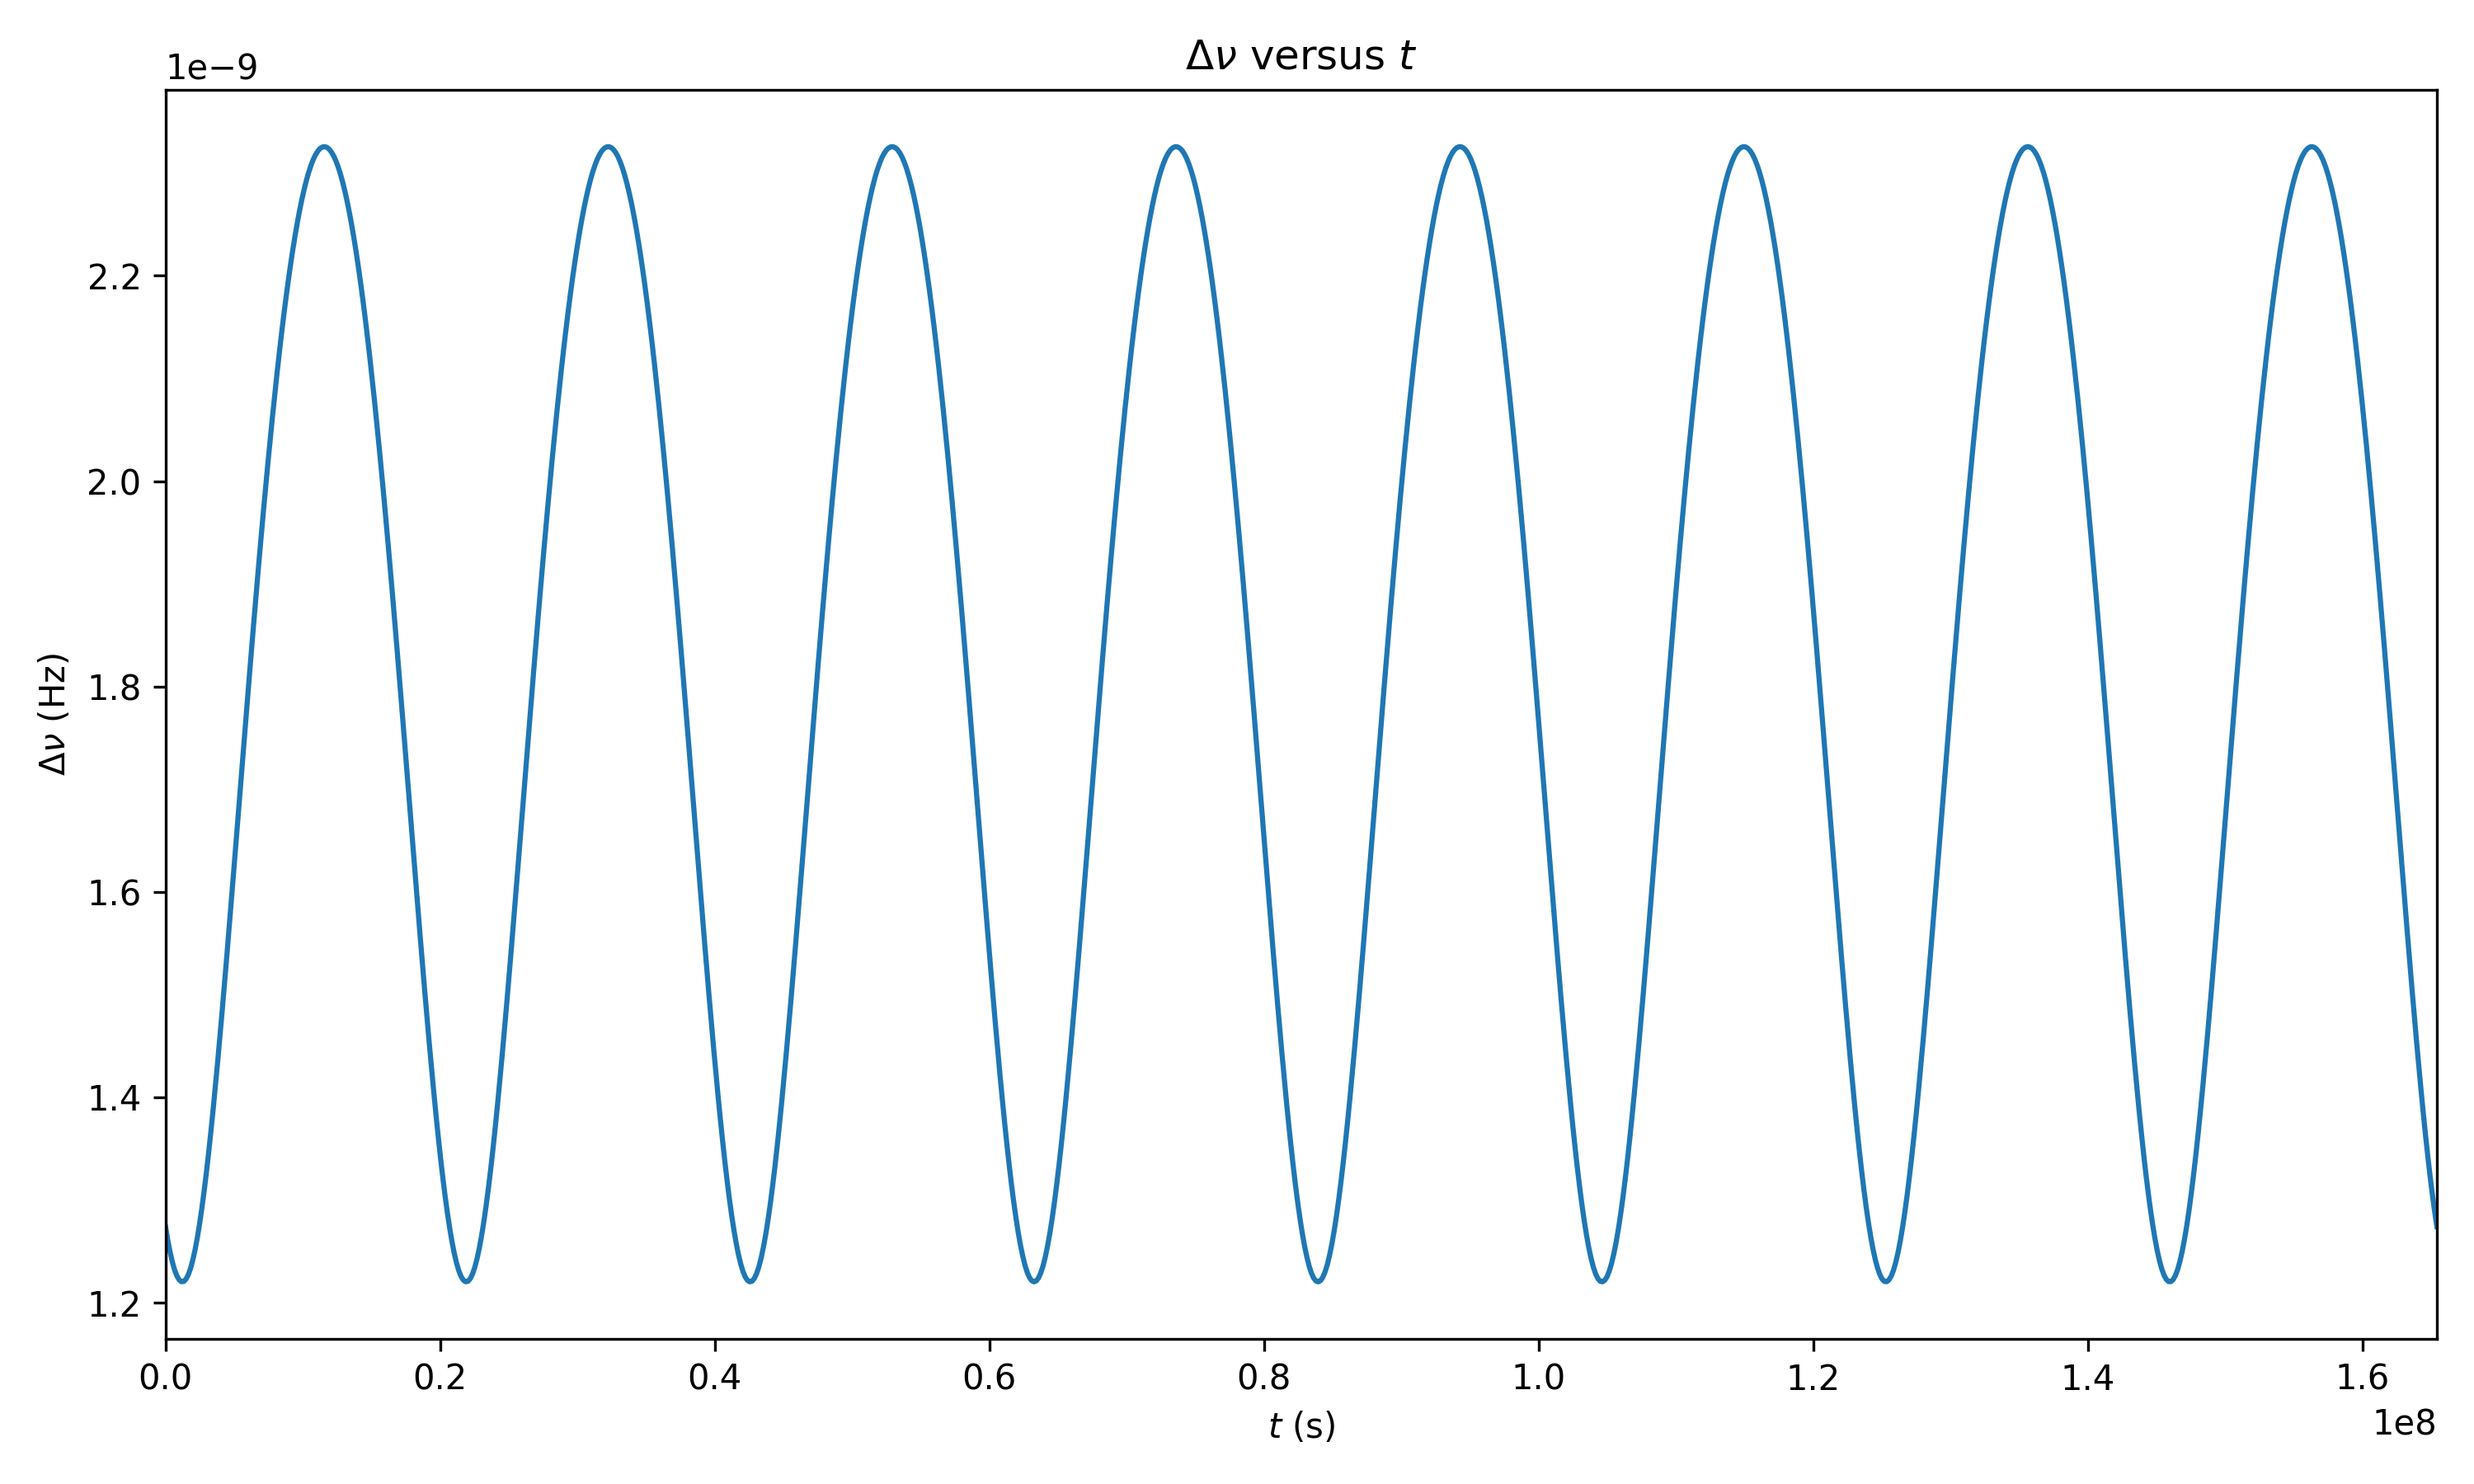
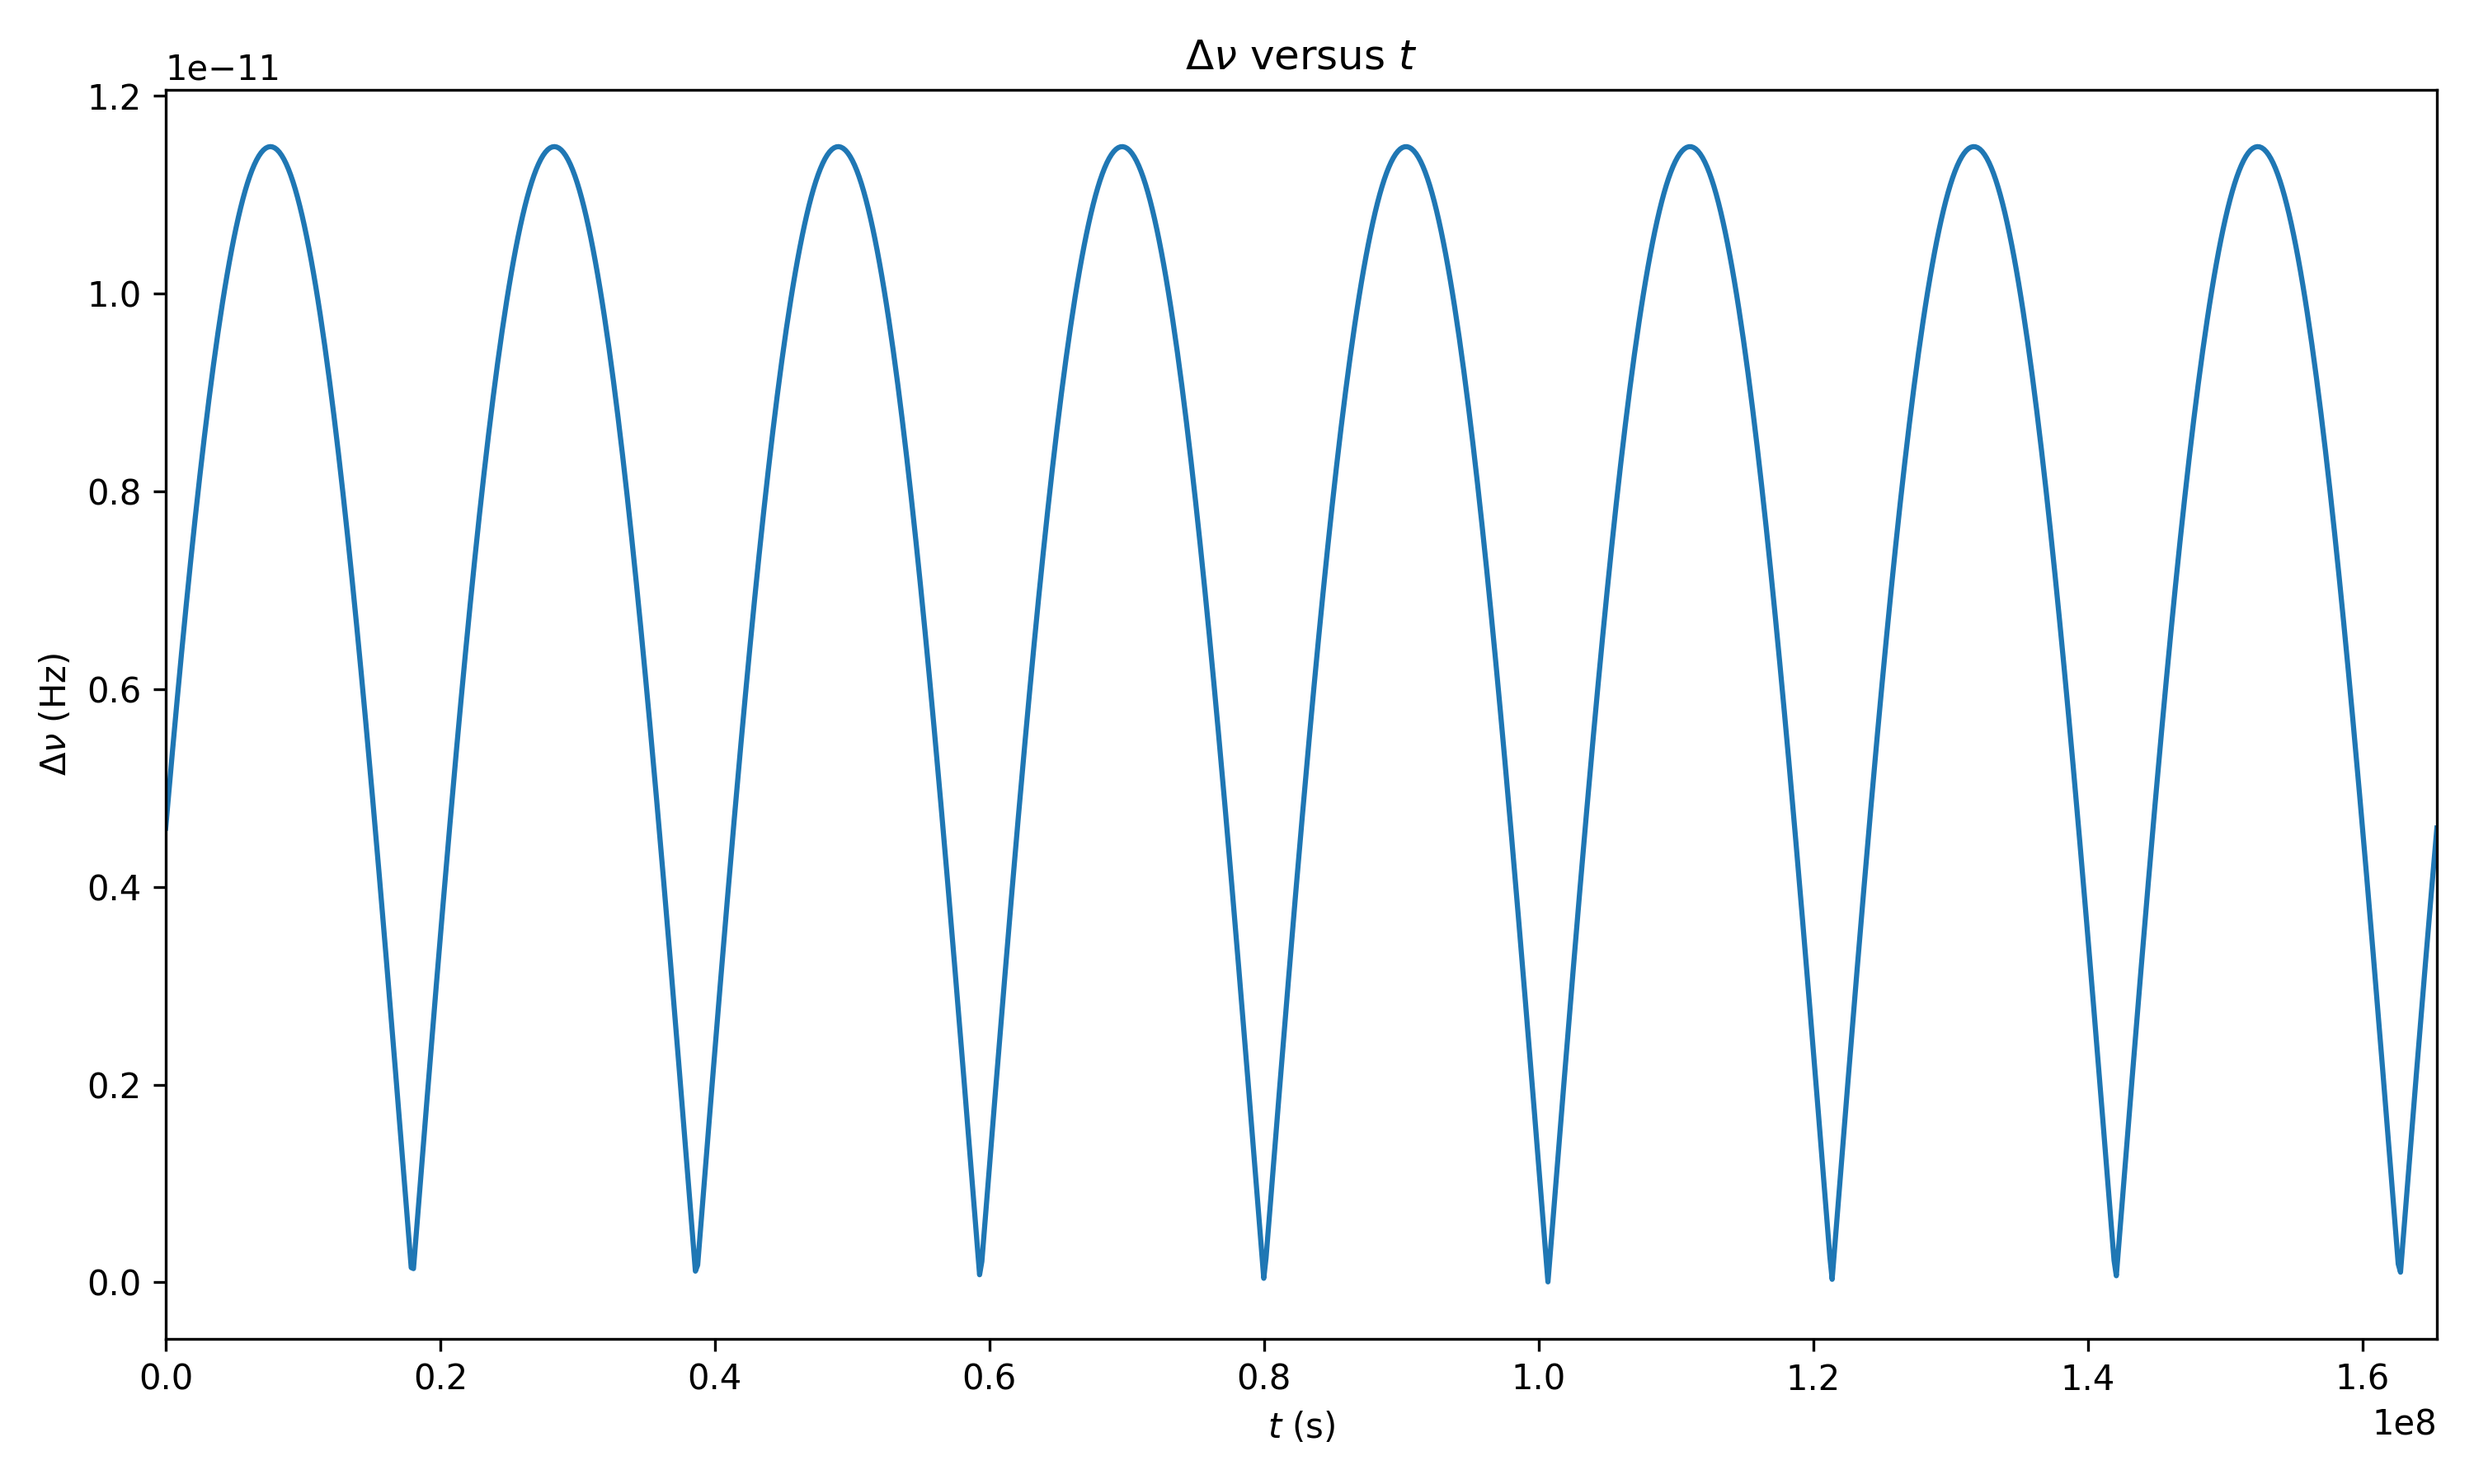
In progress

diff --git a/zeeman.py b/zeeman.py
@@ -493,7 +493,7 @@ def main():
 
     # Specify the potential and particle types
     potential_type = "flat" # sech or flat
-    particle_type = "dark photon" # axion or dark photon
+    particle_type = "axion" # axion or dark photon
 
     # Common parameters
     B_bar = 1e-10 # Background magnetic field (T)
